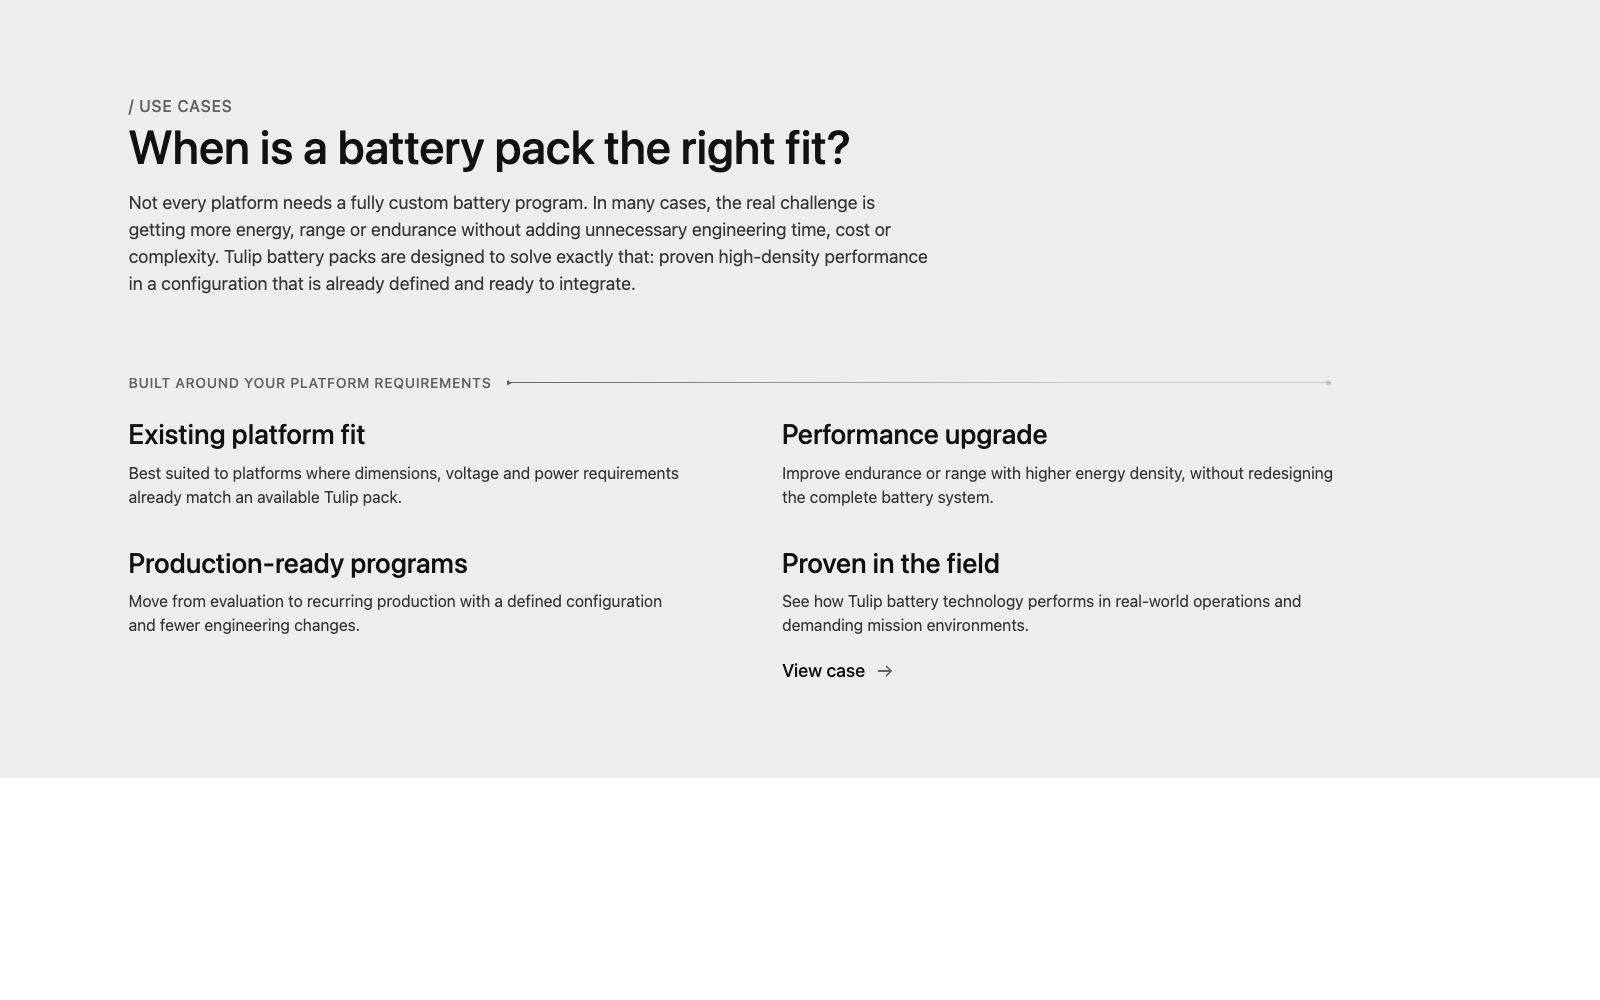
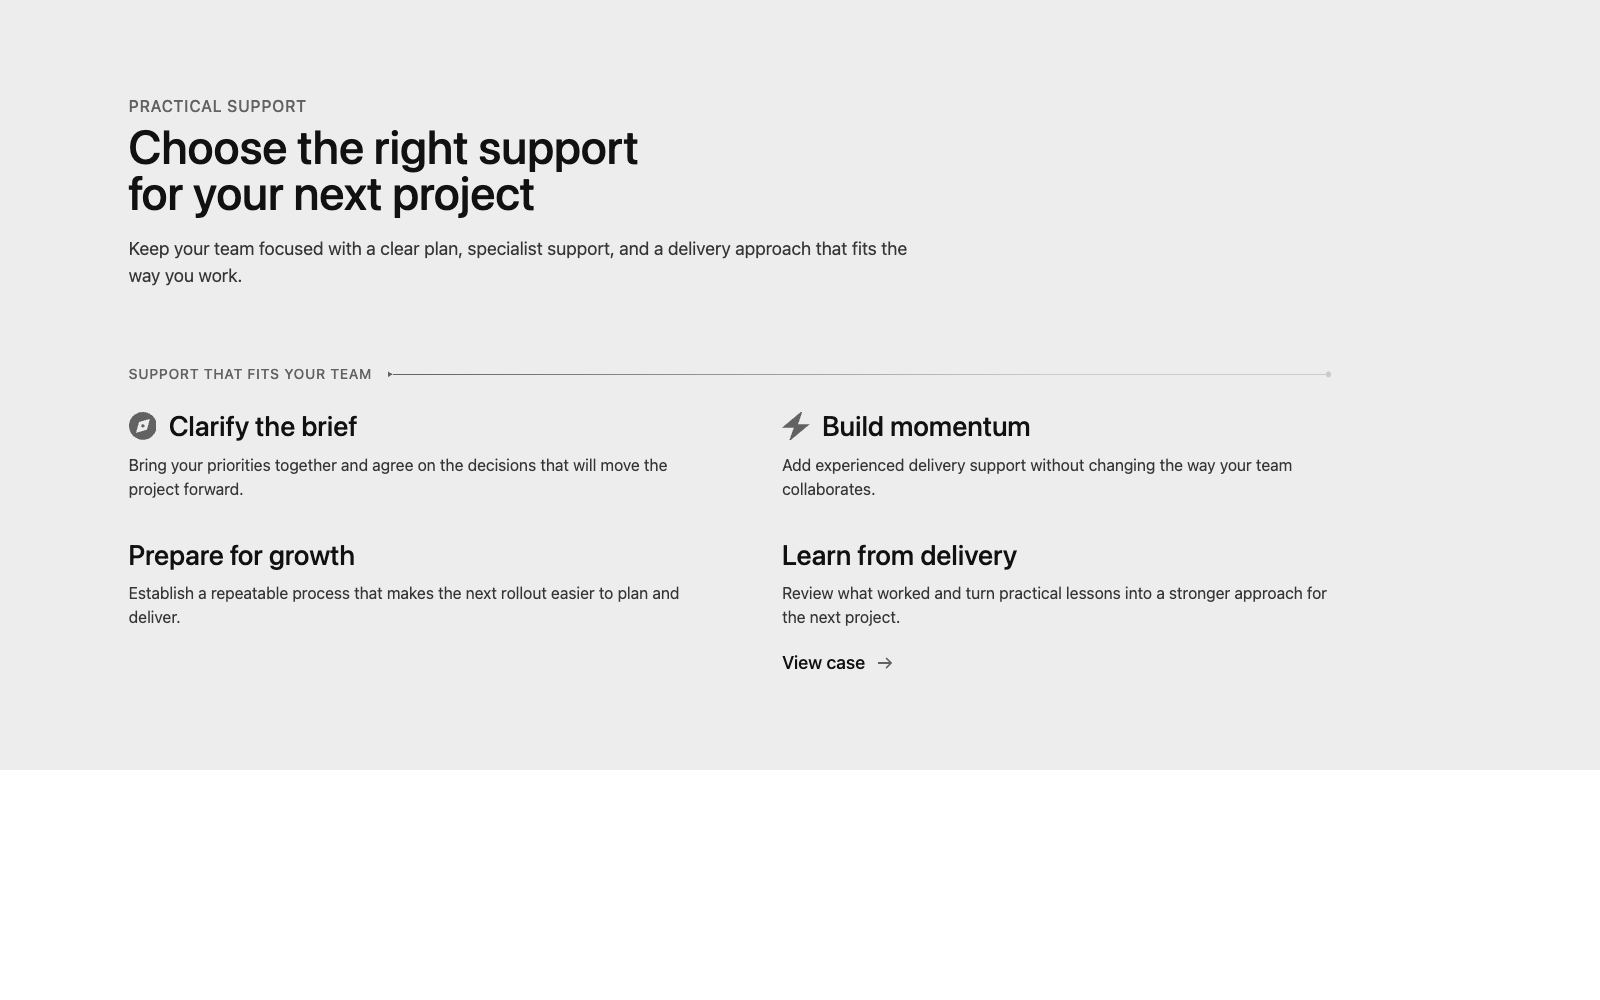
fix(sections): complete item controls and responsive hero layout

Changed region(s): [[0.0625, 0.093, 0.5938, 0.31], [0.0625, 0.372, 0.4375, 0.651], [0.4688, 0.403, 0.8438, 0.682]]

diff --git a/src/sections/solution-list/allentown/solution-list-allentown.contract.ts b/src/sections/solution-list/allentown/solution-list-allentown.contract.ts
@@ -1,6 +1,7 @@
 import type { Block, CollectionSlug, Field } from 'payload'
 
-import type { Cta, CtaGroup, Media, RichText, SectionIntro } from '../../../shared/content.js'
+import type { Cta, CtaGroup, CtaStyle, Media, RichText, SectionIntro } from '../../../shared/content.js'
+import { isCtaStyle } from '../../../shared/content.js'
 import { renderRichText } from '../../../shared/rich-text.js'
 import { mediaToProps, optionalSharpSolidIcon, optionalText, requireArray, requireObject, requireText, requireTheme, type PayloadAdapterOptions } from '../../../shared/payload.js'
 import { isSafeWebUrl } from '../../../urls.js'
@@ -13,6 +14,7 @@ export interface SolutionListAllentownItem {
   label?: { text: string; icon?: string }
   description: RichText
   cta: Cta
+  ctaStyle?: CtaStyle
 }
 
 export interface SolutionListAllentownContent {
@@ -55,6 +57,8 @@ export function createSolutionListAllentownBlock({ mediaCollection = 'media', ta
           { name: 'linkLabel', label: 'Link label', type: 'text', localized: true, required: true, validate: (value: unknown) => hasText(value) || 'Enter non-empty text.' },
           { name: 'href', label: 'URL', type: 'text', localized: true, admin: { condition: (_, siblingData) => siblingData?.destinationType === 'url' }, validate: (value: unknown) => value === undefined || value === null || value === '' || isSafeWebUrl(value) || 'Enter an absolute HTTP(S) URL or a site-root-relative path.' },
           targetField(targetRelation, true),
+          { name: 'icon', label: 'Icon', type: 'text', localized: true, validate: isSharpSolidIconNameOrEmpty, admin: { description: 'Optional Font Awesome 7 Sharp Solid icon name, for example arrow-right or bolt.' } },
+          { name: 'ctaStyle', label: 'CTA style', type: 'select', localized: true, options: [{ label: 'Primary', value: 'primary' }, { label: 'Secondary', value: 'secondary' }, { label: 'Clear', value: 'clear' }, { label: 'Clear base', value: 'clear-base' }], admin: { description: 'Leave empty to retain Clear.' } },
         ],
       },
       { name: 'callout', label: 'Callout', type: 'group', localized: true, fields: [{ name: 'intro', label: 'Intro block', type: 'group', required: true, fields: introFields() }, { name: 'ctaGroup', label: 'CTA group', type: 'group', required: true, fields: ctaGroupFields(targetRelation) }] },
@@ -116,6 +120,7 @@ function itemToProps(value: unknown, index: number, contentHref: SolutionListAll
   const item = requireObject(value, `items[${index}]`)
   const label = item.label ? requireObject(item.label, `items[${index}].label`) : undefined
   const destination = destinationToProps(item, `items[${index}]`, 'linkLabel', contentHref)
+  const ctaStyle = isCtaStyle(item.ctaStyle) ? item.ctaStyle : undefined
 
   return {
     image: mediaToProps(item.image, `items[${index}].image`, options),
@@ -124,6 +129,7 @@ function itemToProps(value: unknown, index: number, contentHref: SolutionListAll
     ...(label && optionalText(label.text, `items[${index}].label.text`) ? { label: { text: requireText(label.text, `items[${index}].label.text`), ...(optionalSharpSolidIcon(label.icon, `items[${index}].label.icon`) ? { icon: optionalSharpSolidIcon(label.icon, `items[${index}].label.icon`) } : {}) } } : {}),
     description: renderRichText(item.description, `items[${index}].description`),
     cta: destination,
+    ...(ctaStyle ? { ctaStyle } : {}),
   }
 }
 

diff --git a/src/sections/use-cases/allentown/use-cases-allentown.payload.ts b/src/sections/use-cases/allentown/use-cases-allentown.payload.ts
@@ -1,7 +1,7 @@
 // @generated Use Cases Payload contract from the manifest.
 import type { Block, CollectionSlug } from 'payload'
 import { createManifestBlock } from '../../../shared/manifest-block.js'
-import { ctaGroupToProps, optionalText, requireArray, requireObject, requireText, requireTheme, type PayloadAdapterOptions } from '../../../shared/payload.js'
+import { ctaGroupToProps, optionalSharpSolidIcon, optionalText, requireArray, requireObject, requireText, requireTheme, type PayloadAdapterOptions } from '../../../shared/payload.js'
 import { richTextToHtml } from '../../../shared/rich-text.js'
 import type { BetaUseCasesAllentownContent, PayloadBetaUseCasesAllentownDocument, UseCasesAllentownItem } from './use-cases-allentown.types.js'
 
@@ -62,6 +62,12 @@ const manifest = {
           "required": true,
           "localized": true
         },
+        "icon": {
+          "kind": "text",
+          "required": false,
+          "localized": true,
+          "description": "Optional Font Awesome 7 Sharp Solid icon name rendered before the item title."
+        },
         "description": {
           "kind": "richText",
           "required": true,
@@ -79,7 +85,7 @@ const manifest = {
               "localized": true,
               "minItems": 0,
               "maxItems": 2,
-              "description": "Add zero, one or two actions. Set the style of each action to Primary, Secondary or Clear."
+              "description": "Add zero, one or two actions. Set the style of each action to Primary, Secondary, Clear or Clear base."
             }
           }
         }
@@ -105,9 +111,11 @@ const introToProps = (value: unknown): BetaUseCasesAllentownContent['intro'] => 
 
 const itemToProps = (value: unknown, index: number, options: PayloadAdapterOptions): UseCasesAllentownItem => {
   const item = requireObject(value, 'items[' + index + ']')
+  const icon = optionalSharpSolidIcon(item.icon, 'items[' + index + '].icon')
   const ctaGroup = ctaGroupToProps(item.ctaGroup, 'items[' + index + '].ctaGroup', options)
   return {
     title: requireText(item.title, 'items[' + index + '].title'),
+    ...(icon ? { icon } : {}),
     description: { html: richTextToHtml(item.description, 'items[' + index + '].description') },
     ...(ctaGroup ? { ctaGroup } : {}),
   }

diff --git a/src/sections/use-cases/allentown/use-cases-allentown.types.ts b/src/sections/use-cases/allentown/use-cases-allentown.types.ts
@@ -3,6 +3,7 @@ import type { BetaTheme } from '../../../shared/payload.js'
 
 export interface UseCasesAllentownItem {
   title: string
+  icon?: string
   description: RichText
   ctaGroup?: CtaGroup
 }
@@ -19,5 +20,5 @@ type DraftFields<T> = { [Field in keyof T]?: T[Field] | null }
 export interface PayloadBetaUseCasesAllentownDocument extends DraftFields<Omit<BetaUseCasesAllentownContent, 'intro' | 'items'>> {
   blockType?: string
   intro?: { accentHeading?: string | null; heading?: string | null; description?: unknown } | null
-  items?: Array<{ title?: string | null; description?: unknown; ctaGroup?: unknown } | null> | null
+  items?: Array<{ title?: string | null; icon?: string | null; description?: unknown; ctaGroup?: unknown } | null> | null
 }

diff --git a/CHANGELOG.md b/CHANGELOG.md
@@ -11,6 +11,8 @@
 - Expose the existing Sharp Solid icon-name validator and SVG resolver through `@kinekt-io/components/icons` for consuming CMS configurations.
 - Add `clear-base` to shared CTA styles: clear-button presentation with icons inheriting the text color.
 - Add optional zero-to-two CTA groups below the Steps Stage intro and below its steps; retain per-step CTA groups.
+- Add optional localized Sharp Solid title icons to Use Case items through Facility Fact's title-prefix slot, using the section's theme accent.
+- Add optional localized Solution List item CTA styles (`primary`, `secondary`, `clear`, or `clear-base`); retain CTA icons inside the rendered button.
 
 ### Changed
 
@@ -23,6 +25,9 @@
 - Replace MOQ Lead Times' fixed facts with one or two editable info columns containing repeatable row titles and labels, plus the shared optional CTA group. Existing CMS content requires migration from `moq`, `leadTimes`, and `cta` to `infoColumns` and `ctas`.
 - Size MOQ headings one visual level below their semantic level and use the theme accent for MOQ and Product Hero checklist icons.
 - Allow one to four Media Metrics Allentown entries instead of requiring exactly four; enforce both limits in Payload.
+- Use regular `400` weight for Next Step numbers through a component-owned font-weight token.
+- Use regular `400` weight for Process Story Trinity numbered markers through a component-owned font-weight token.
+- Use a 3:2 text-to-media grid for Hero Allentown on desktop; below 50rem, both stacked blocks and their reading width fill the available container.
 
 ### Fixed
 
@@ -45,6 +50,7 @@
 - Separate Steps Stage items with internal borders only; align flightpath arrow, line, and endpoint on one centerline.
 - Remove Case Studies quote indentation, inherit the mono font token, and use zero author row gap. Allow hanging quotation marks past the carousel clipping edge without horizontal page overflow.
 - Correct the Product Hero Allentown design reference to [Hero Section - Battery Packs](https://www.figma.com/design/7rHrxb3twyBvPo9QxkOBly/KSW-1-Tulip-Tech-Website?node-id=5255-538028&t=OtYEVTRRdAJJYQ0v-11); content fields and rendering are unchanged.
+- Let FAQ intros use the section content width while FAQ items and the Callout remain at `width-l`.
 
 ## 26.10.2-beta.25 — 2026-10-23
 
